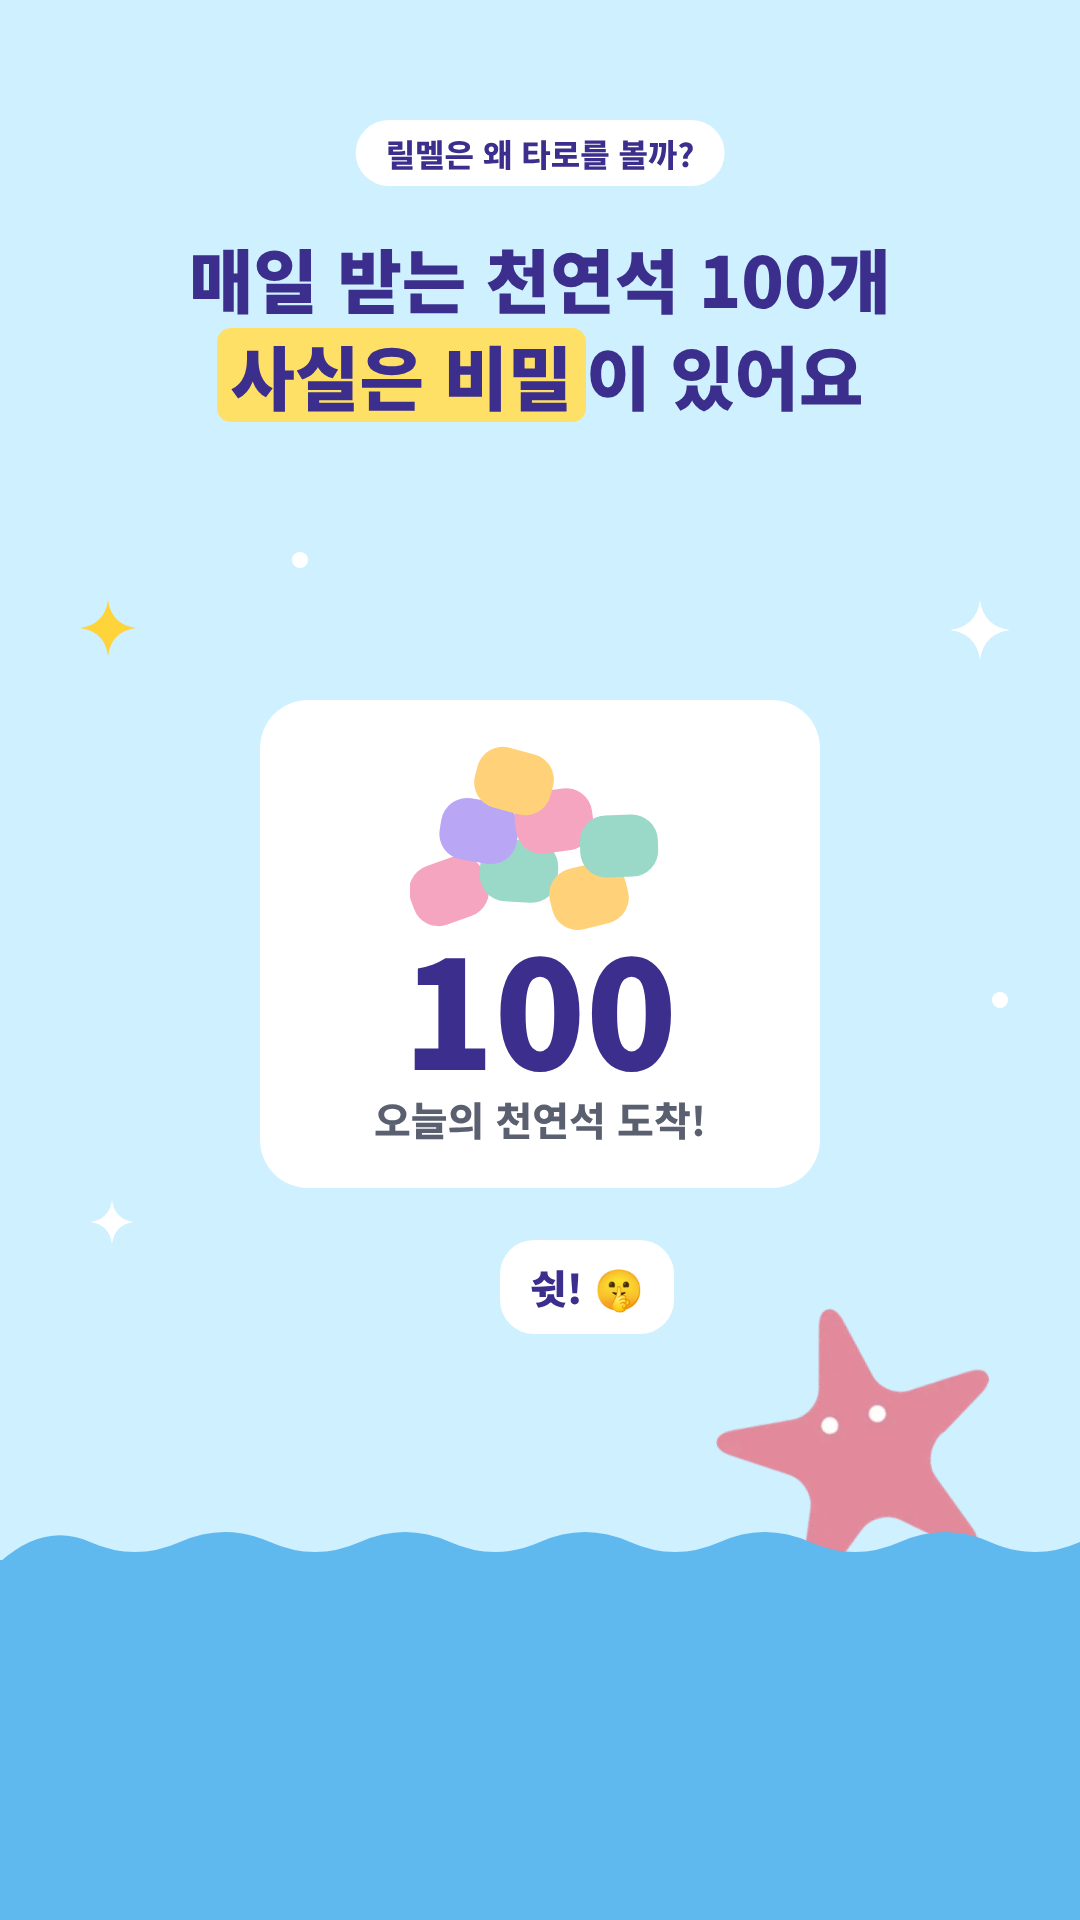
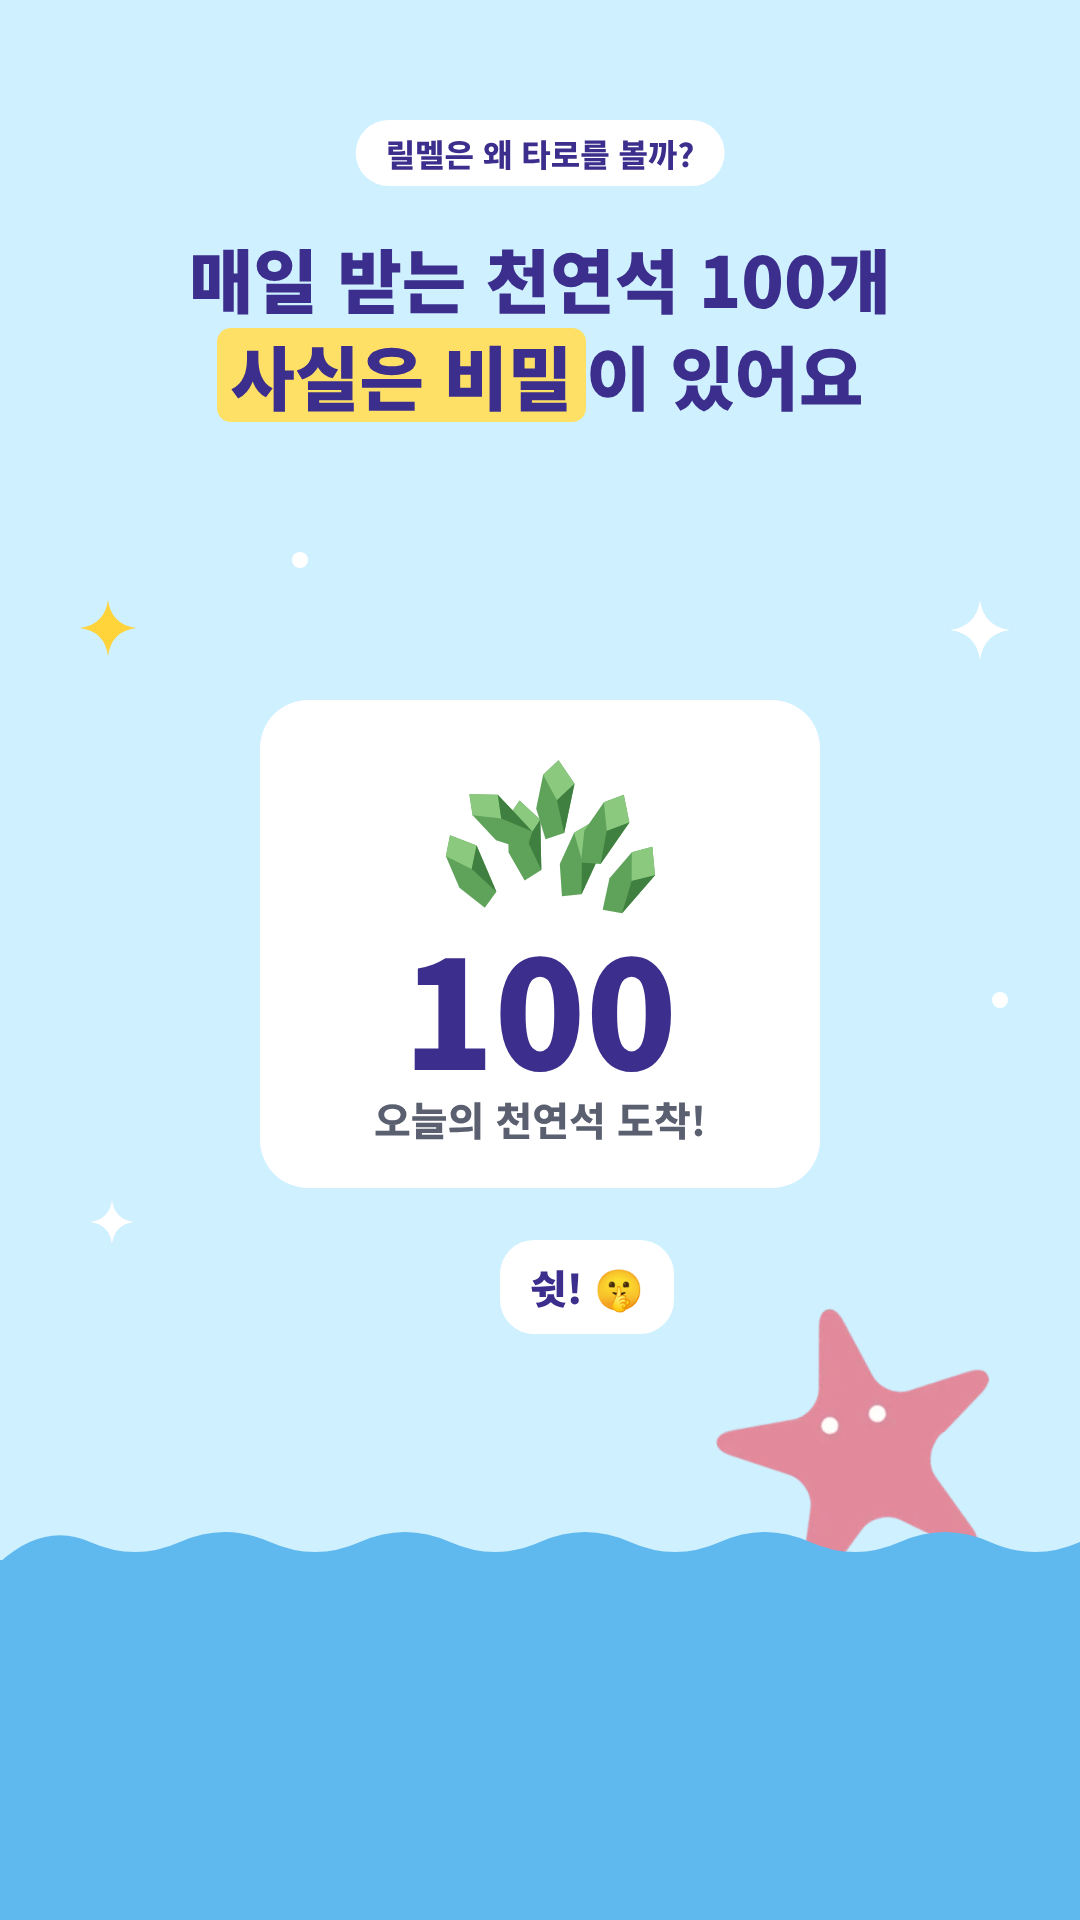
릴스 스토리: 앱과 같은 천연석·크리스탈·가위바위보 화면, 황토색 율리움으로 수정
Claude-Session: https://claude.ai/code/session_01CejgdC5FKbbZMnpaYgrfgJ

Changed region(s): [[0.3667, 0.375, 0.6111, 0.5]]

diff --git a/promo/src/reel_story_06_rps.html b/promo/src/reel_story_06_rps.html
@@ -1,24 +1,32 @@
 <!doctype html>
 <html lang="ko"><head><meta charset="utf-8">
 <link rel="stylesheet" href="base.css"><link rel="stylesheet" href="flat.css"><link rel="stylesheet" href="earth.css"><link rel="stylesheet" href="story.css">
-<style>.vs{position:absolute;left:50%;top:1110px;margin-left:-80px;width:160px;height:160px;border-radius:50%;background:var(--ink);color:#FFE066;font-size:70px;font-weight:900;line-height:160px;text-align:center}
-.hand{position:absolute;width:250px;height:250px;border-radius:50%;background:#FFF;font-size:150px;line-height:250px;text-align:center}
-.win{position:absolute;left:90px;top:780px;padding:10px 30px;background:#FFE066;border-radius:999px;font-size:40px;font-weight:900;color:var(--ink);rotate:-8deg}</style></head><body>
+<style>
+/* 25–28초: 율리움의 가위바위보 결투 (앱 화면 느낌) */
+.modal{position:absolute;left:80px;right:80px;top:640px;height:820px;background:#FFF;border-radius:48px;overflow:hidden}
+.modal .mt{position:absolute;top:56px;left:0;right:0;text-align:center;font-size:42px;font-weight:800;color:#2b3140}
+.seal{position:absolute;left:-60px;top:250px;width:560px}
+.h{position:absolute;left:560px;width:300px}
+.btn{position:absolute;left:0;right:0;top:1530px;text-align:center}
+.btn span{display:inline-flex;align-items:center;gap:18px;padding:22px 46px;background:#FFF;border-radius:30px;font-size:46px;font-weight:900;color:var(--ink)}
+.btn svg{width:56px;height:70px}
+.win{position:absolute;left:120px;top:560px;padding:10px 30px;background:#FFE066;border-radius:999px;font-size:40px;font-weight:900;color:var(--ink);rotate:-8deg;z-index:2}
+</style></head><body>
 <div class="f" id="frame">
   <span class="ep">릴멜은 왜 타로를 볼까?</span>
-<p class="tt">가위바위보 고수 <span class="mk">율리움</span>은</p>
-  <p class="sub" style="top:420px">결투에서 이겨 크리스탈을<br>릴멜에게 가져다줬어요</p>
-  <img src="../../images/ic_sealion_pink_big_01.webp" alt="율리움" style="position:absolute;left:40px;top:820px;width:460px;"><span class="win">승리!</span>
-  <div class="hand" style="left:90px;top:1150px">✌</div>
-  <div class="vs">VS</div>
-  <div class="hand" style="left:740px;top:1150px">🖐</div>
-  <svg style="position:absolute;left:660px;top:760px;width:150px;height:187.5px" viewBox="0 0 100 125">
-<path d="M50 0 L90 30 L90 85 L50 125 L10 85 L10 30Z" fill="#7CD3F7"/><path d="M50 0 L90 30 L50 45 L10 30Z" fill="#C9F0FF"/>
-<path d="M50 45 L90 30 L90 85 L50 125Z" fill="#4FB6E6"/><path d="M28 22 L40 15" stroke="#FFF" stroke-width="5" stroke-linecap="round"/></svg><svg style="position:absolute;left:820px;top:820px;width:110px;height:137.5px" viewBox="0 0 100 125">
-<path d="M50 0 L90 30 L90 85 L50 125 L10 85 L10 30Z" fill="#7CD3F7"/><path d="M50 0 L90 30 L50 45 L10 30Z" fill="#C9F0FF"/>
-<path d="M50 45 L90 30 L90 85 L50 125Z" fill="#4FB6E6"/><path d="M28 22 L40 15" stroke="#FFF" stroke-width="5" stroke-linecap="round"/></svg>
-  <div class="sea" style="top:1560px;background:#5FB8EE"><svg viewBox="0 0 1080 40" preserveAspectRatio="none"><path d="M0 40 Q45 0 90 20 T180 20 T270 20 T360 20 T450 20 T540 20 T630 20 T720 20 T810 20 T900 20 T990 20 T1080 20 V40Z" fill="#5FB8EE"/></svg></div>
+  <p class="tt">가위바위보 고수 <span class="mk">율리움</span>은</p>
+  <p class="sub" style="top:420px">결투로 크리스탈을 따서<br>릴멜에게 가져다줬어요</p>
+  <span class="win">결투 신청!</span>
+  <div class="modal">
+    <p class="mt">무기를 고르세요</p>
+    <img class="seal" src="sealion_tan.png" alt="율리움">
+    <img class="h" src="hand_scissors.png" alt="가위" style="top:200px">
+    <img class="h" src="hand_rock.png" alt="바위" style="top:400px;width:250px;left:590px">
+    <img class="h" src="hand_paper.png" alt="보" style="top:580px">
+  </div>
+  <p class="btn"><span>받아주기 <svg viewBox="0 0 100 125"><path d="M15 45L30 22H70L85 45Z" fill="#7FE0FF"/><path d="M30 22L42 45H58L70 22Z" fill="#B8F0FF"/><path d="M15 45H85L50 105Z" fill="#1FA8E0"/><path d="M15 45L50 105L40 45Z" fill="#4CC4F0"/><path d="M60 45L50 105L85 45Z" fill="#0E8CC4"/> </svg>2</span></p>
+  <div class="sea" style="top:1720px;background:#5FB8EE"><svg viewBox="0 0 1080 40" preserveAspectRatio="none"><path d="M0 40 Q45 0 90 20 T180 20 T270 20 T360 20 T450 20 T540 20 T630 20 T720 20 T810 20 T900 20 T990 20 T1080 20 V40Z" fill="#5FB8EE"/></svg></div>
 </div>
 <script src="sparkle.js"></script>
-<script>sparkles([[960,600,50,'#FFD43B'],[60,640,44,'#FFF']],[[300,700,8,'#FFF'],[1000,1450,8,'#FFF']])</script>
+<script>sparkles([[960,560,50,'#FFD43B'],[50,1500,44,'#FFF']],[[1000,1560,8,'#FFF']])</script>
 </body></html>

diff --git a/promo/src/reel_story_05_secret.html b/promo/src/reel_story_05_secret.html
@@ -2,7 +2,7 @@
 <html lang="ko"><head><meta charset="utf-8">
 <link rel="stylesheet" href="base.css"><link rel="stylesheet" href="flat.css"><link rel="stylesheet" href="earth.css"><link rel="stylesheet" href="story.css">
 <style>.noti{position:absolute;left:110px;right:110px;top:1240px;display:flex;align-items:center;gap:26px;padding:30px 36px;background:#FFF;border-radius:40px}
-.noti i{flex:none;width:96px;height:96px;border-radius:24px;background:#FFF5C2;font-style:normal;font-size:56px;line-height:96px;text-align:center}
+.noti i{flex:none;width:96px;height:96px;border-radius:24px;background:#E6F4E2;font-style:normal;text-align:center}
 .noti b{display:block;font-size:30px;color:var(--mute)}.noti span{font-size:42px;font-weight:900;color:var(--ink)}
 .f.night .sand{background:#4A3FA0}
 .step{position:absolute;font-size:44px;opacity:.7}</style></head><body>
@@ -11,9 +11,9 @@
 <p class="tt">그날 밤, <span class="mk">트리마레</span>는…</p>
   <p class="sub" style="top:420px">릴멜이 속상할까 봐<br>사람들에게 <span class="mk" style="color:var(--ink)">몰래 천연석을</span> 나눠 줬어요</p>
   <img src="../../images/com_starfish_02.webp" alt="트리마레" style="position:absolute;left:380px;top:700px;width:300px;rotate:10deg">
-  <svg style="position:absolute;left:680px;top:760px;width:260px;height:200px" viewBox="0 0 260 200"><rect x="0" y="120" width="78" height="62" rx="26" fill="#F6A5C0" transform="rotate(-20 39 151)"/><rect x="70" y="100" width="78" height="62" rx="26" fill="#9AD8C8" transform="rotate(3 109 131)"/><rect x="140" y="125" width="78" height="62" rx="26" fill="#FFD27A" transform="rotate(-14 179 156)"/><rect x="30" y="60" width="78" height="62" rx="26" fill="#B9A6F5" transform="rotate(9 69 91)"/><rect x="105" y="50" width="78" height="62" rx="26" fill="#F6A5C0" transform="rotate(-8 144 81)"/><rect x="65" y="10" width="78" height="62" rx="26" fill="#FFD27A" transform="rotate(15 104 41)"/><rect x="170" y="75" width="78" height="62" rx="26" fill="#9AD8C8" transform="rotate(-2 209 106)"/></svg>
+  <svg style="position:absolute;left:680px;top:760px;width:260px;height:200px" viewBox="0 0 260 200"><g transform="translate(40 90) rotate(-30 20 40)"><path d="M20 0L38 22L32 72L14 80L2 50L6 16Z" fill="#5FA35A"/><path d="M20 0L38 22L22 40L6 16Z" fill="#8BC97F"/><path d="M38 22L32 72L22 40Z" fill="#3F7F3F"/></g><g transform="translate(95 60) rotate(-8 20 40)"><path d="M20 0L38 22L32 72L14 80L2 50L6 16Z" fill="#5FA35A"/><path d="M20 0L38 22L22 40L6 16Z" fill="#8BC97F"/><path d="M38 22L32 72L22 40Z" fill="#3F7F3F"/></g><g transform="translate(150 80) rotate(18 20 40)"><path d="M20 0L38 22L32 72L14 80L2 50L6 16Z" fill="#5FA35A"/><path d="M20 0L38 22L22 40L6 16Z" fill="#8BC97F"/><path d="M38 22L32 72L22 40Z" fill="#3F7F3F"/></g><g transform="translate(200 100) rotate(34 20 40)"><path d="M20 0L38 22L32 72L14 80L2 50L6 16Z" fill="#5FA35A"/><path d="M20 0L38 22L22 40L6 16Z" fill="#8BC97F"/><path d="M38 22L32 72L22 40Z" fill="#3F7F3F"/></g><g transform="translate(70 40) rotate(-50 20 40)"><path d="M20 0L38 22L32 72L14 80L2 50L6 16Z" fill="#5FA35A"/><path d="M20 0L38 22L22 40L6 16Z" fill="#8BC97F"/><path d="M38 22L32 72L22 40Z" fill="#3F7F3F"/></g><g transform="translate(125 20) rotate(5 20 40)"><path d="M20 0L38 22L32 72L14 80L2 50L6 16Z" fill="#5FA35A"/><path d="M20 0L38 22L22 40L6 16Z" fill="#8BC97F"/><path d="M38 22L32 72L22 40Z" fill="#3F7F3F"/></g><g transform="translate(175 50) rotate(28 20 40)"><path d="M20 0L38 22L32 72L14 80L2 50L6 16Z" fill="#5FA35A"/><path d="M20 0L38 22L22 40L6 16Z" fill="#8BC97F"/><path d="M38 22L32 72L22 40Z" fill="#3F7F3F"/></g></svg>
   <span class="step" style="left:200px;top:1050px">👣</span><span class="step" style="left:290px;top:990px">👣</span>
-  <div class="noti"><i>💎</i><div><b>릴멜의 타로카드</b><span>천연석 100개가 도착했어요!</span></div></div>
+  <div class="noti"><i><svg viewBox="0 0 40 80" style="width:44px;height:80px;margin-top:8px"><path d="M20 0L38 22L32 72L14 80L2 50L6 16Z" fill="#5FA35A"/><path d="M20 0L38 22L22 40L6 16Z" fill="#8BC97F"/><path d="M38 22L32 72L22 40Z" fill="#3F7F3F"/></svg></i><div><b>릴멜의 타로카드</b><span>천연석 100개가 도착했어요!</span></div></div>
   <p class="sub" style="top:1500px;font-size:46px">그게 바로 <span class="mk" style="color:var(--ink)">매일 받는 100개</span>예요 💜</p>
   <div class="sand" style="top:1700px;height:900px"></div>
 </div>

diff --git a/promo/src/reel_story_03_friends.html b/promo/src/reel_story_03_friends.html
@@ -6,12 +6,10 @@
   <span class="ep">릴멜은 왜 타로를 볼까?</span>
 <p class="tt">바다에서 만난 친구들이<br><span class="mk">도와주기로</span> 했어요</p>
   <img src="../../images/com_starfish_02.webp" alt="트리마레" style="position:absolute;left:80px;top:620px;width:300px;rotate:-8deg"><span class="chip" style="left:120px;top:930px">트리마레</span>
-  <svg style="position:absolute;left:430px;top:640px;width:286.0px;height:220.00000000000003px" viewBox="0 0 260 200"><rect x="0" y="120" width="78" height="62" rx="26" fill="#F6A5C0" transform="rotate(-20 39 151)"/><rect x="70" y="100" width="78" height="62" rx="26" fill="#9AD8C8" transform="rotate(3 109 131)"/><rect x="140" y="125" width="78" height="62" rx="26" fill="#FFD27A" transform="rotate(-14 179 156)"/><rect x="30" y="60" width="78" height="62" rx="26" fill="#B9A6F5" transform="rotate(9 69 91)"/><rect x="105" y="50" width="78" height="62" rx="26" fill="#F6A5C0" transform="rotate(-8 144 81)"/><rect x="65" y="10" width="78" height="62" rx="26" fill="#FFD27A" transform="rotate(15 104 41)"/><rect x="170" y="75" width="78" height="62" rx="26" fill="#9AD8C8" transform="rotate(-2 209 106)"/></svg><span class="sub" style="top:900px;left:400px;right:auto;font-size:36px">천연석을 구해 오면</span>
+  <svg style="position:absolute;left:430px;top:640px;width:286.0px;height:220.00000000000003px" viewBox="0 0 260 200"><g transform="translate(40 90) rotate(-30 20 40)"><path d="M20 0L38 22L32 72L14 80L2 50L6 16Z" fill="#5FA35A"/><path d="M20 0L38 22L22 40L6 16Z" fill="#8BC97F"/><path d="M38 22L32 72L22 40Z" fill="#3F7F3F"/></g><g transform="translate(95 60) rotate(-8 20 40)"><path d="M20 0L38 22L32 72L14 80L2 50L6 16Z" fill="#5FA35A"/><path d="M20 0L38 22L22 40L6 16Z" fill="#8BC97F"/><path d="M38 22L32 72L22 40Z" fill="#3F7F3F"/></g><g transform="translate(150 80) rotate(18 20 40)"><path d="M20 0L38 22L32 72L14 80L2 50L6 16Z" fill="#5FA35A"/><path d="M20 0L38 22L22 40L6 16Z" fill="#8BC97F"/><path d="M38 22L32 72L22 40Z" fill="#3F7F3F"/></g><g transform="translate(200 100) rotate(34 20 40)"><path d="M20 0L38 22L32 72L14 80L2 50L6 16Z" fill="#5FA35A"/><path d="M20 0L38 22L22 40L6 16Z" fill="#8BC97F"/><path d="M38 22L32 72L22 40Z" fill="#3F7F3F"/></g><g transform="translate(70 40) rotate(-50 20 40)"><path d="M20 0L38 22L32 72L14 80L2 50L6 16Z" fill="#5FA35A"/><path d="M20 0L38 22L22 40L6 16Z" fill="#8BC97F"/><path d="M38 22L32 72L22 40Z" fill="#3F7F3F"/></g><g transform="translate(125 20) rotate(5 20 40)"><path d="M20 0L38 22L32 72L14 80L2 50L6 16Z" fill="#5FA35A"/><path d="M20 0L38 22L22 40L6 16Z" fill="#8BC97F"/><path d="M38 22L32 72L22 40Z" fill="#3F7F3F"/></g><g transform="translate(175 50) rotate(28 20 40)"><path d="M20 0L38 22L32 72L14 80L2 50L6 16Z" fill="#5FA35A"/><path d="M20 0L38 22L22 40L6 16Z" fill="#8BC97F"/><path d="M38 22L32 72L22 40Z" fill="#3F7F3F"/></g></svg><span class="sub" style="top:900px;left:400px;right:auto;font-size:36px">천연석을 구해 오면</span>
   <span class="ar" style="left:500px;top:1000px;rotate:90deg">➜</span>
   <img src="../../images/com_pew_512.webp" alt="퓨" style="position:absolute;left:120px;top:1110px;width:300px"><span class="chip" style="left:220px;top:1440px">퓨</span>
-  <svg style="position:absolute;left:560px;top:1110px;width:210px;height:262.5px" viewBox="0 0 100 125">
-<path d="M50 0 L90 30 L90 85 L50 125 L10 85 L10 30Z" fill="#7CD3F7"/><path d="M50 0 L90 30 L50 45 L10 30Z" fill="#C9F0FF"/>
-<path d="M50 45 L90 30 L90 85 L50 125Z" fill="#4FB6E6"/><path d="M28 22 L40 15" stroke="#FFF" stroke-width="5" stroke-linecap="round"/></svg><span class="sub" style="top:1390px;left:440px;right:auto;font-size:36px">크리스탈로 바꿔 줘요</span>
+  <svg style="position:absolute;left:560px;top:1110px;width:210px;height:262.5px" viewBox="0 0 100 125"><path d="M15 45L30 22H70L85 45Z" fill="#7FE0FF"/><path d="M30 22L42 45H58L70 22Z" fill="#B8F0FF"/><path d="M15 45H85L50 105Z" fill="#1FA8E0"/><path d="M15 45L50 105L40 45Z" fill="#4CC4F0"/><path d="M60 45L50 105L85 45Z" fill="#0E8CC4"/></svg><span class="sub" style="top:1390px;left:440px;right:auto;font-size:36px">크리스탈로 바꿔 줘요</span>
   <p class="sub" style="top:1560px;font-size:50px">그래도 <span class="mk">턱없이 부족</span>했어요 😢</p>
 </div>
 <script src="sparkle.js"></script>

diff --git a/promo/src/reel_story_01_hook.html b/promo/src/reel_story_01_hook.html
@@ -6,7 +6,7 @@
 <div class="f" id="frame">
   <span class="ep">릴멜은 왜 타로를 볼까?</span>
 <p class="tt">매일 받는 천연석 100개<br><span class="mk">사실은 비밀</span>이 있어요</p>
-  <div class="gift"><svg style="position:absolute;left:150px;top:40px;width:260px;height:200px" viewBox="0 0 260 200"><rect x="0" y="120" width="78" height="62" rx="26" fill="#F6A5C0" transform="rotate(-20 39 151)"/><rect x="70" y="100" width="78" height="62" rx="26" fill="#9AD8C8" transform="rotate(3 109 131)"/><rect x="140" y="125" width="78" height="62" rx="26" fill="#FFD27A" transform="rotate(-14 179 156)"/><rect x="30" y="60" width="78" height="62" rx="26" fill="#B9A6F5" transform="rotate(9 69 91)"/><rect x="105" y="50" width="78" height="62" rx="26" fill="#F6A5C0" transform="rotate(-8 144 81)"/><rect x="65" y="10" width="78" height="62" rx="26" fill="#FFD27A" transform="rotate(15 104 41)"/><rect x="170" y="75" width="78" height="62" rx="26" fill="#9AD8C8" transform="rotate(-2 209 106)"/></svg><div style="height:190px"></div><b>100</b><small>오늘의 천연석 도착!</small></div>
+  <div class="gift"><svg style="position:absolute;left:150px;top:40px;width:260px;height:200px" viewBox="0 0 260 200"><g transform="translate(40 90) rotate(-30 20 40)"><path d="M20 0L38 22L32 72L14 80L2 50L6 16Z" fill="#5FA35A"/><path d="M20 0L38 22L22 40L6 16Z" fill="#8BC97F"/><path d="M38 22L32 72L22 40Z" fill="#3F7F3F"/></g><g transform="translate(95 60) rotate(-8 20 40)"><path d="M20 0L38 22L32 72L14 80L2 50L6 16Z" fill="#5FA35A"/><path d="M20 0L38 22L22 40L6 16Z" fill="#8BC97F"/><path d="M38 22L32 72L22 40Z" fill="#3F7F3F"/></g><g transform="translate(150 80) rotate(18 20 40)"><path d="M20 0L38 22L32 72L14 80L2 50L6 16Z" fill="#5FA35A"/><path d="M20 0L38 22L22 40L6 16Z" fill="#8BC97F"/><path d="M38 22L32 72L22 40Z" fill="#3F7F3F"/></g><g transform="translate(200 100) rotate(34 20 40)"><path d="M20 0L38 22L32 72L14 80L2 50L6 16Z" fill="#5FA35A"/><path d="M20 0L38 22L22 40L6 16Z" fill="#8BC97F"/><path d="M38 22L32 72L22 40Z" fill="#3F7F3F"/></g><g transform="translate(70 40) rotate(-50 20 40)"><path d="M20 0L38 22L32 72L14 80L2 50L6 16Z" fill="#5FA35A"/><path d="M20 0L38 22L22 40L6 16Z" fill="#8BC97F"/><path d="M38 22L32 72L22 40Z" fill="#3F7F3F"/></g><g transform="translate(125 20) rotate(5 20 40)"><path d="M20 0L38 22L32 72L14 80L2 50L6 16Z" fill="#5FA35A"/><path d="M20 0L38 22L22 40L6 16Z" fill="#8BC97F"/><path d="M38 22L32 72L22 40Z" fill="#3F7F3F"/></g><g transform="translate(175 50) rotate(28 20 40)"><path d="M20 0L38 22L32 72L14 80L2 50L6 16Z" fill="#5FA35A"/><path d="M20 0L38 22L22 40L6 16Z" fill="#8BC97F"/><path d="M38 22L32 72L22 40Z" fill="#3F7F3F"/></g></svg><div style="height:190px"></div><b>100</b><small>오늘의 천연석 도착!</small></div>
   <img src="../../images/com_starfish_02.webp" alt="트리마레" style="position:absolute;left:720px;top:1300px;width:280px;rotate:-14deg">
   <span class="bb" style="left:500px;top:1240px">쉿! 🤫</span>
   <div class="sea" style="top:1560px;background:#5FB8EE"><svg viewBox="0 0 1080 40" preserveAspectRatio="none"><path d="M0 40 Q45 0 90 20 T180 20 T270 20 T360 20 T450 20 T540 20 T630 20 T720 20 T810 20 T900 20 T990 20 T1080 20 V40Z" fill="#5FB8EE"/></svg></div>
